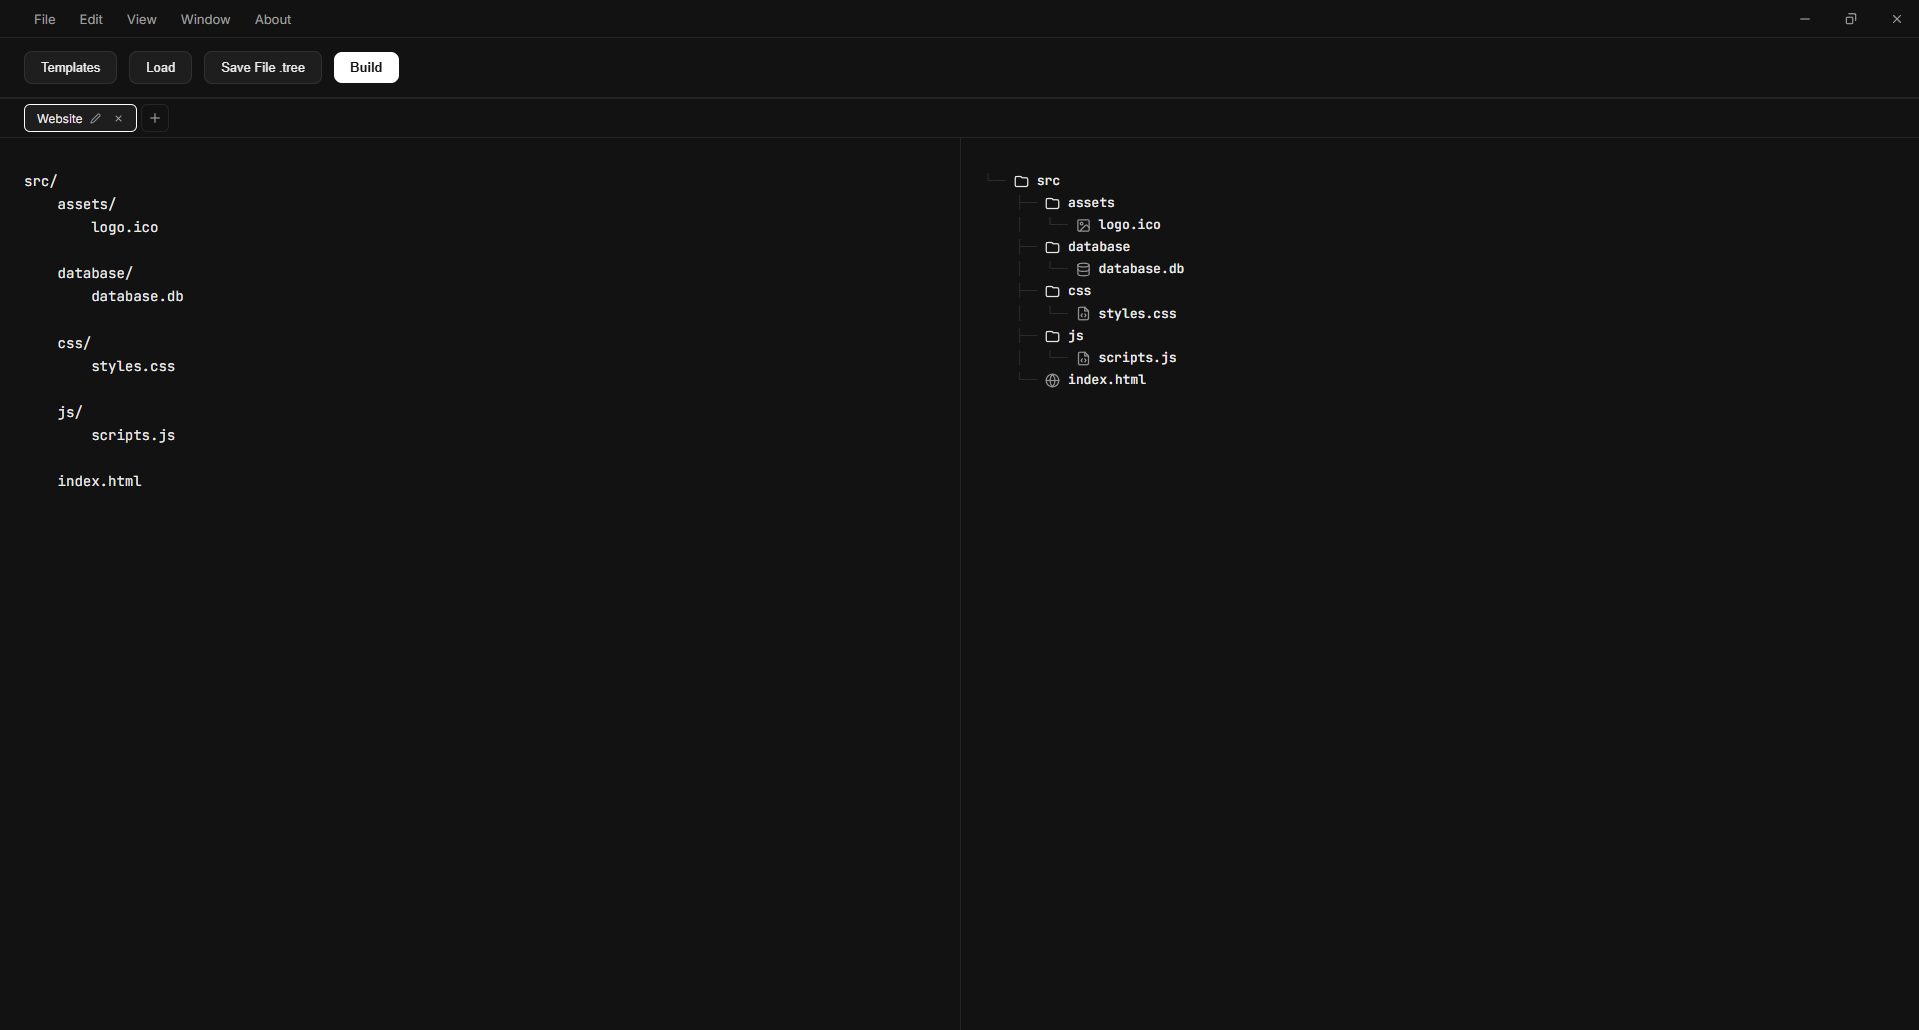
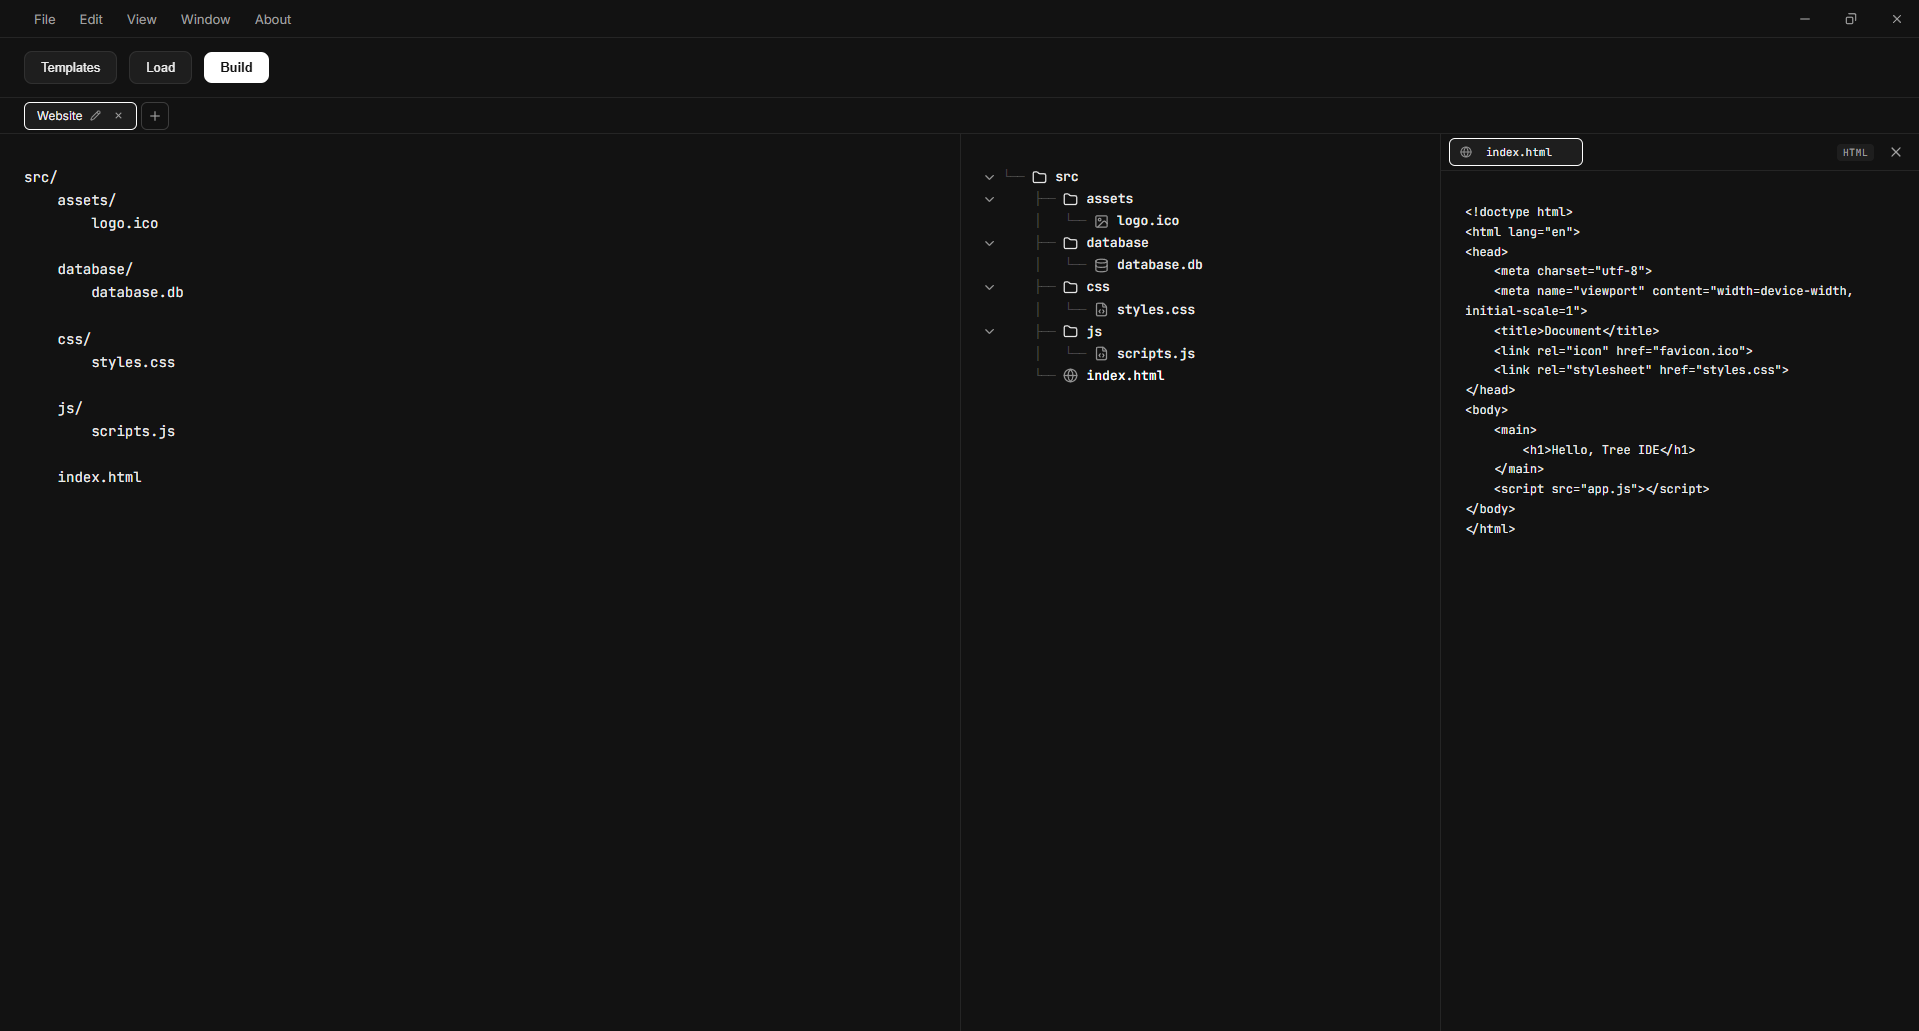
Release: Tree IDE v2.0.77

diff --git a/tests/build-release-changelogs.test.js b/tests/build-release-changelogs.test.js
@@ -1,7 +1,9 @@
 import {
     buildCompareUrl,
+    buildLocaleChangelogNav,
     combineChangelogs,
     ensureFullChangelogLink,
+    ensureGithubReleaseNotes,
     stripFullChangelogLink,
     formatReleaseTitle,
     readManualChangelog,
@@ -60,6 +62,36 @@ describe('stripFullChangelogLink', () => {
         const input = '## Notes\n\n- item\n\n**Full Changelog**: https://github.com/o/r/compare/v1...v2\n';
         expect(stripFullChangelogLink(input)).toBe('## Notes\n\n- item\n');
     });
+
+    it('removes locale changelog navigation links', () => {
+        const input = '[Português](changelogs/pt.md) · [Español](changelogs/es.md)\n\n## What\'s new\n\n- item\n';
+        expect(stripFullChangelogLink(input)).toBe('## What\'s new\n\n- item\n');
+    });
+});
+
+describe('buildLocaleChangelogNav', () => {
+    it('builds release download links for localized changelog assets', () => {
+        const nav = buildLocaleChangelogNav('v2.0.55', 'owner/repo');
+
+        expect(nav).toBe(
+            '[Português](https://github.com/owner/repo/releases/download/v2.0.55/pt.md) · '
+            + '[Español](https://github.com/owner/repo/releases/download/v2.0.55/es.md)\n\n',
+        );
+    });
+});
+
+describe('ensureGithubReleaseNotes', () => {
+    it('prepends locale nav and appends the compare link', () => {
+        const result = ensureGithubReleaseNotes('## Added\n\n- item', {
+            compareUrl: 'https://github.com/owner/repo/compare/v2.0.54...v2.0.55',
+            tag: 'v2.0.55',
+            repo: 'owner/repo',
+        });
+
+        expect(result).toContain('[Português](https://github.com/owner/repo/releases/download/v2.0.55/pt.md)');
+        expect(result).toContain('## Added');
+        expect(result).toContain('**Full Changelog**: https://github.com/owner/repo/compare/v2.0.54...v2.0.55');
+    });
 });
 
 describe('ensureFullChangelogLink', () => {
@@ -117,7 +149,11 @@ describe('writeEnglishNotes', () => {
     it('writes manual changelog content to en.md', async () => {
         const manualPath = path.join(tempDir, 'changelog.md');
         const outPath = path.join(tempDir, 'en.md');
-        await writeFile(manualPath, '## Added\n\n- manual note', 'utf8');
+        await writeFile(
+            manualPath,
+            '[Português](changelogs/pt.md) · [Español](changelogs/es.md)\n\n## Added\n\n- manual note',
+            'utf8',
+        );
 
         const source = await writeEnglishNotes({
             prev: 'v2.0.54',
@@ -131,8 +167,13 @@ describe('writeEnglishNotes', () => {
         expect(written).toContain('## Added');
         expect(written).toContain('- manual note');
         expect(written).not.toContain('**Full Changelog**');
+        expect(written).not.toContain('changelogs/pt.md');
 
         const githubRelease = await readFile(path.join(tempDir, 'github-release.md'), 'utf8');
+        expect(githubRelease).toContain(
+            '[Português](https://github.com/markelpher/TreeIDE-Deploy/releases/download/v2.0.55/pt.md)',
+        );
         expect(githubRelease).toContain('**Full Changelog**: https://github.com/markelpher/TreeIDE-Deploy/compare/v2.0.54...v2.0.55');
+        expect(githubRelease).not.toContain('changelogs/pt.md');
     });
 });

diff --git a/docs/changelog.md b/docs/changelog.md
@@ -1,4 +1,6 @@
-## What's new in v2.0.76
+[Português](changelogs/pt.md) · [Español](changelogs/es.md)
+
+## What's new in v2.0.77
 
 Tree IDE v2 is a full rewrite and expansion of the original app ([Tree IDE v1.0.0](https://github.com/TreeIDE/TreeIDE/releases/tag/v1.0.0)). Same core idea — design folder structures in plain text, preview them live, and generate projects — with a new architecture, richer tooling, and multi-platform releases.
 
@@ -78,7 +80,7 @@ Tree IDE v2 is a full rewrite and expansion of the original app ([Tree IDE v1.0.
 - **Localized release notes** in the update modal (English, Portuguese, and Spanish)
 - **Readable update changelog** — wider dialog, **What’s new** expanded by default, dedicated scroll area, clearer heading hierarchy, and action buttons pinned in the footer
 - **Manual `docs/changelog.md` workflow** — edit release notes in the repo; CI translates them for the app and publishes English on GitHub
-- **Split release notes** — app update modal shows changelog text only; the GitHub compare link (`Full Changelog`) appears on the GitHub release page, not inside the app
+- **Split release notes** — app update modal shows changelog text only; locale navigation links appear in `docs/changelog.md` and on the GitHub release description (pointing to attached `pt.md` / `es.md` assets); the compare link (`Full Changelog`) is GitHub-only
 - **GitHub Models translation** — Portuguese and Spanish release notes are generated in CI via the `models.github.ai` API
 
 #### Keyboard shortcuts
@@ -119,6 +121,9 @@ Tree IDE v2 is a full rewrite and expansion of the original app ([Tree IDE v1.0.
 - **Release notes routing** — `en.md`, `pt.md`, and `es.md` feed the in-app updater; `github-release.md` feeds the GitHub release body with the compare link
 - **Templates screen** — structure editor and tree preview use a 50/50 split in custom edit mode; preview label shortened to **Preview**; **Use template** action centered in the modal footer
 - **Custom template toasts** — open-in-editor hint now points to **From current project** instead of the removed per-template update action
+- **File preview tab bar** — file tabs scroll in a dedicated region beside the file-type badge and close button; removed the vertical divider; stable bar height with arrow scrolling only (no hover scrollbar expansion)
+- **File preview editor typography** — shared monospace sizing with the Templates and Build Studio file viewers
+- **README previews** — main screenshot lives under `assets/previews/`; Portuguese and Spanish READMEs use localized preview images
 
 ### Fixed
 
@@ -140,6 +145,11 @@ Tree IDE v2 is a full rewrite and expansion of the original app ([Tree IDE v1.0.
 - **Encrypted export validation** — password and confirmation must match before creating protected ZIP or `.tree` files
 - **Update detection** — only versions strictly newer than the installed build are offered
 - **Release notes rendering** — HTML in update changelogs is sanitized before display
+- **File preview tab bar** — tabs no longer overlap the file-type label or disrupt the editor layout when many files are open
+- **File preview editor** — scrollbar and keyboard editing (Tab / Backspace) match the main structure editor; font weight and size now match the Templates file viewer
+- **Save / export naming** — `.tree` saves and exports use the resolved project name instead of a generic Untitled fallback
+- **Custom templates persistence** — custom templates autosave while the Templates modal is open and restore from IndexedDB after restart
+- **Windows NSIS installer build** — removed duplicate uninstall LangStrings that failed CI (`warning 6030`); clean-install and uninstall welcome text follow the selected installer language; Spanish strings cover both LCIDs `3082` and `1034` (NSIS `SpanishInternational.nlf`); uninstall welcome uses `MUI_WELCOMEPAGE_*` defines expected by MUI2
 
 ### Removed
 

diff --git a/docs/README.es.md b/docs/README.es.md
@@ -4,9 +4,9 @@
 
 Aplicación de escritorio ligera para diseñar estructuras de proyecto en texto simple, visualizarlas como un árbol interactivo y generar carpetas, archivos iniciales y archivos comprimidos mediante **Build Studio**.
 
-![Tree IDE Interface](https://github.com/markelpher/TreeIDE-Deploy/blob/main/assets/preview/preview.png)
+![Tree IDE Interface](https://github.com/markelpher/TreeIDE-Deploy/blob/main/assets/preview/preview-ES.png)
 
-Tree IDE v2 es una reescritura completa de la [aplicación original v1](https://github.com/TreeIDE/TreeIDE/releases/tag/v1.0.0). La misma idea central — diseñar estructuras de carpetas en texto, previsualizarlas en vivo y generar proyectos — con arquitectura modular Vite + Electron, herramientas más ricas y releases multiplataforma.
+Tree IDE v2 es una reescritura completa de la [aplicación original](https://github.com/TreeIDE/TreeIDE/releases/tag/v1.0.0). La misma idea central — diseñar estructuras de carpetas en texto, previsualizarlas en vivo y generar proyectos — con arquitectura modular Vite + Electron, herramientas más ricas y releases multiplataforma.
 
 ## Funcionalidades
 

diff --git a/docs/README.pt-BR.md b/docs/README.pt-BR.md
@@ -4,9 +4,9 @@
 
 Aplicativo desktop leve para projetar estruturas de projeto em texto simples, visualizá-las como uma árvore interativa e gerar pastas, arquivos iniciais e arquivos compactados pelo **Build Studio**.
 
-![Tree IDE Interface](https://github.com/markelpher/TreeIDE-Deploy/blob/main/assets/preview/preview.png)
+![Tree IDE Interface](https://github.com/markelpher/TreeIDE-Deploy/blob/main/assets/preview/preview-pt-BR.png)
 
-O Tree IDE v2 é uma reescrita completa do [app original v1](https://github.com/TreeIDE/TreeIDE/releases/tag/v1.0.0). A mesma ideia central — desenhar estruturas de pastas em texto, visualizar ao vivo e gerar projetos — com arquitetura modular Vite + Electron, ferramentas mais ricas e releases multiplataforma.
+O Tree IDE v2 é uma reescrita completa do [app original](https://github.com/TreeIDE/TreeIDE/releases/tag/v1.0.0). A mesma ideia central — desenhar estruturas de pastas em texto, visualizar ao vivo e gerar projetos — com arquitetura modular Vite + Electron, ferramentas mais ricas e releases multiplataforma.
 
 ## Funcionalidades
 

diff --git a/README.md b/README.md
@@ -6,7 +6,7 @@ A lightweight desktop app for designing project structures in plain text, previe
 
 ![Tree IDE Interface](https://github.com/markelpher/TreeIDE-Deploy/blob/main/assets/preview/preview.png)
 
-Tree IDE v2 is a full rewrite of the [original v1 app](https://github.com/TreeIDE/TreeIDE/releases/tag/v1.0.0). Same core idea — design folder structures in text, preview them live, and generate projects — with a modular Vite + Electron architecture, richer tooling, and multi-platform releases.
+Tree IDE v2 is a full rewrite of the [original app](https://github.com/TreeIDE/TreeIDE/releases/tag/v1.0.0). Same core idea — design folder structures in text, preview them live, and generate projects — with a modular Vite + Electron architecture, richer tooling, and multi-platform releases.
 
 ## Features
 
